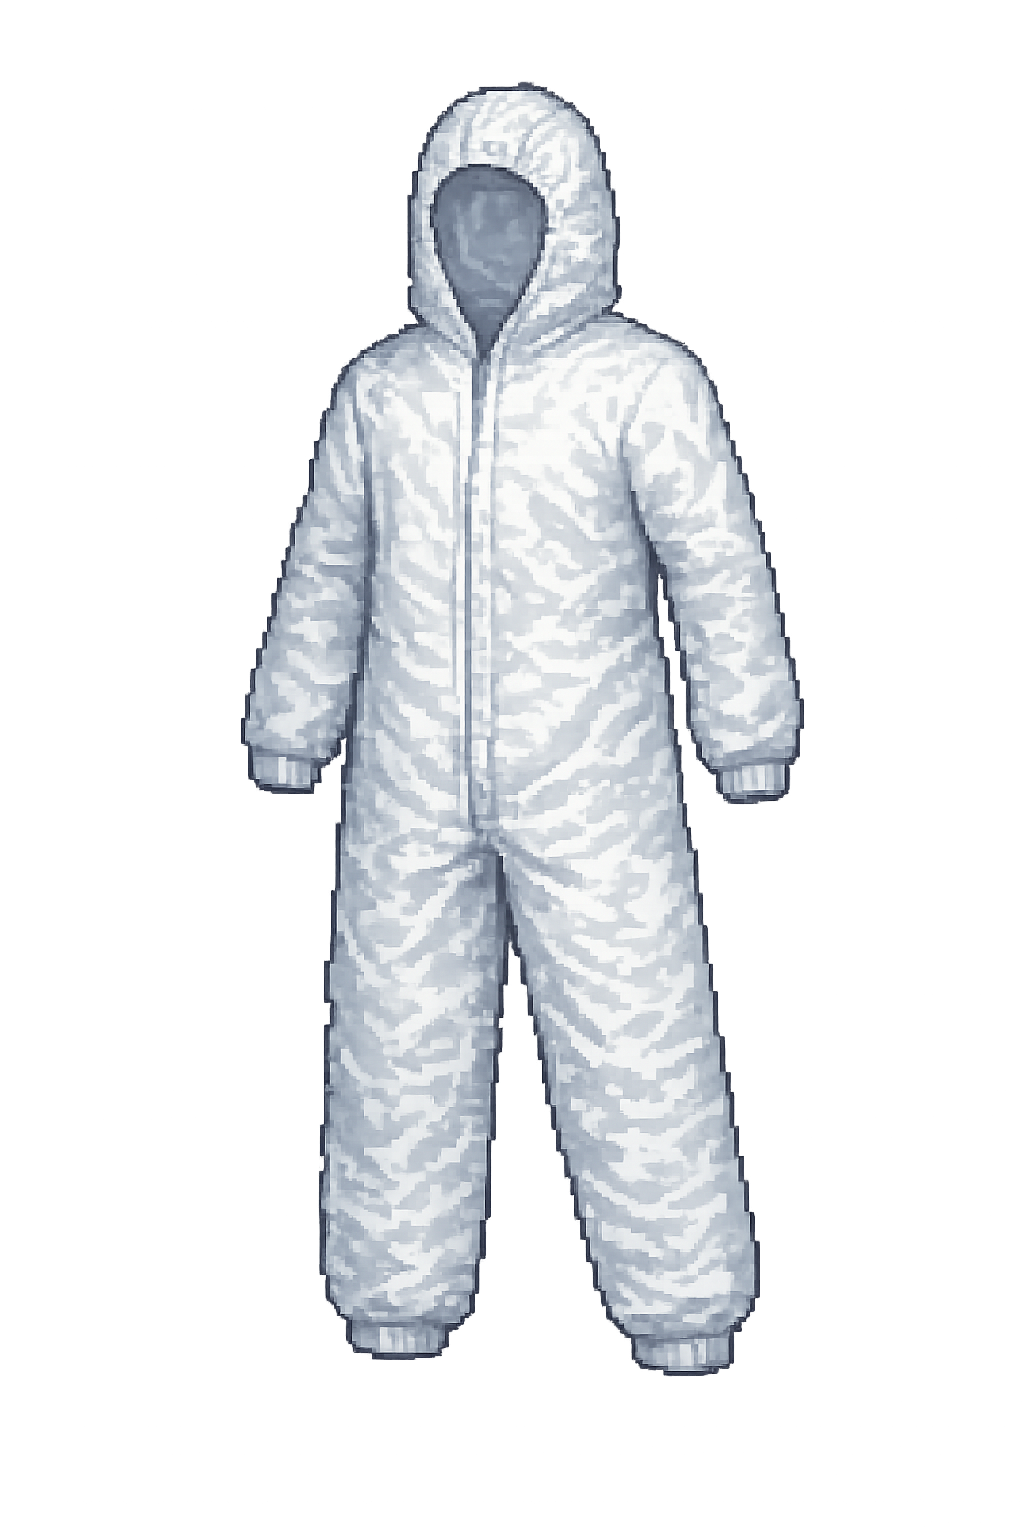
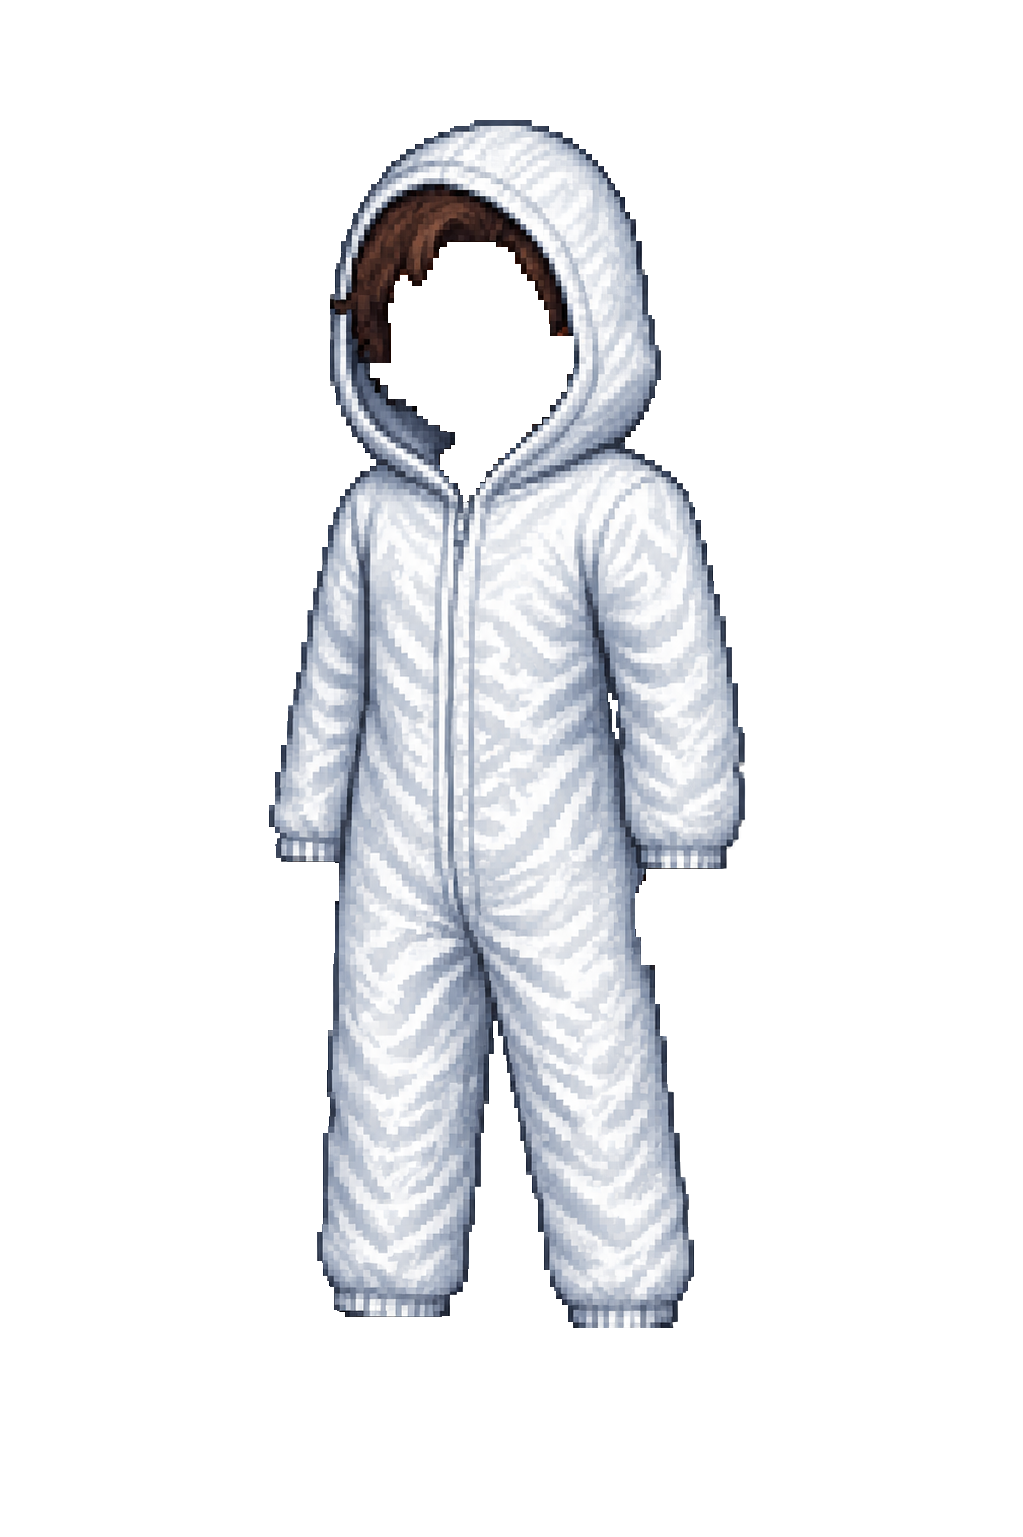
new disposable overall on

Changed region(s): [[0.2121, 0.0312, 0.7879, 0.9062]]

diff --git a/frontend/src/game/scenes/main_scene.js b/frontend/src/game/scenes/main_scene.js
@@ -246,7 +246,6 @@ class MainScene extends Phaser.Scene {
             disposable_overall: this.add.sprite(700, 300, 'disposable_overall')
                 .setScale(this.equipmentConfig.disposable_overall.scale)
                 .setVisible(false)
-                .setDepth(11)
                 .setDepth(13),
             gloves: this.add.sprite(700, 300, 'gloves')
                 .setScale(this.equipmentConfig.gloves.scale)
@@ -286,8 +285,8 @@ class MainScene extends Phaser.Scene {
             this.equipment.pressurized_suit.setVisible(equipped.pressurized_suit);
             this.equipment.wow_helmet.setVisible(equipped.wow_helmet);
 
-            // Swap the player base texture based on pressurized suit state
-            if (equipped.pressurized_suit) {
+            // Swap the player base texture based on pressurized suit or disposable overall state
+            if (equipped.pressurized_suit || equipped.disposable_overall) {
                 this.player.setTexture('head_only');
             } else if (equipped.wow_helmet) {
                 this.player.setTexture('no_hair');

diff --git a/frontend/src/components/ClosetPopup/ItemConfig.js b/frontend/src/components/ClosetPopup/ItemConfig.js
@@ -104,8 +104,8 @@ const EQUIPMENT_CONFIG = buildEquipment({
     category: 'body',
     label: 'Disposable overall',
     equippedStyle: {
-      position: 'absolute', top: '45px', left: '55px', width: '130px', height: 'auto',
-      transform: 'scale(1.1) rotate(1deg) translateY(5px)', transformOrigin: 'top center',
+      position: 'absolute', top: '-20px', left: '53px', width: '130px', height: 'auto',
+      transform: 'scale(2) rotate(1deg) translateY(5px)', transformOrigin: 'top center',
     }
   },
   wow_helmet: {

diff --git a/frontend/src/components/ClosetPopup/Character.jsx b/frontend/src/components/ClosetPopup/Character.jsx
@@ -10,8 +10,7 @@ export default function Character({ equipped, onToggleEquip }) {
 
   // Determine which player image to show based on the equipment
   const getBaseImageSrc = () => {
-
-      if (equipped.pressurized_suit) {
+      if (equipped.pressurized_suit || equipped.disposable_overall) {
         return "/assets/player/head_only.png";
       }
 
